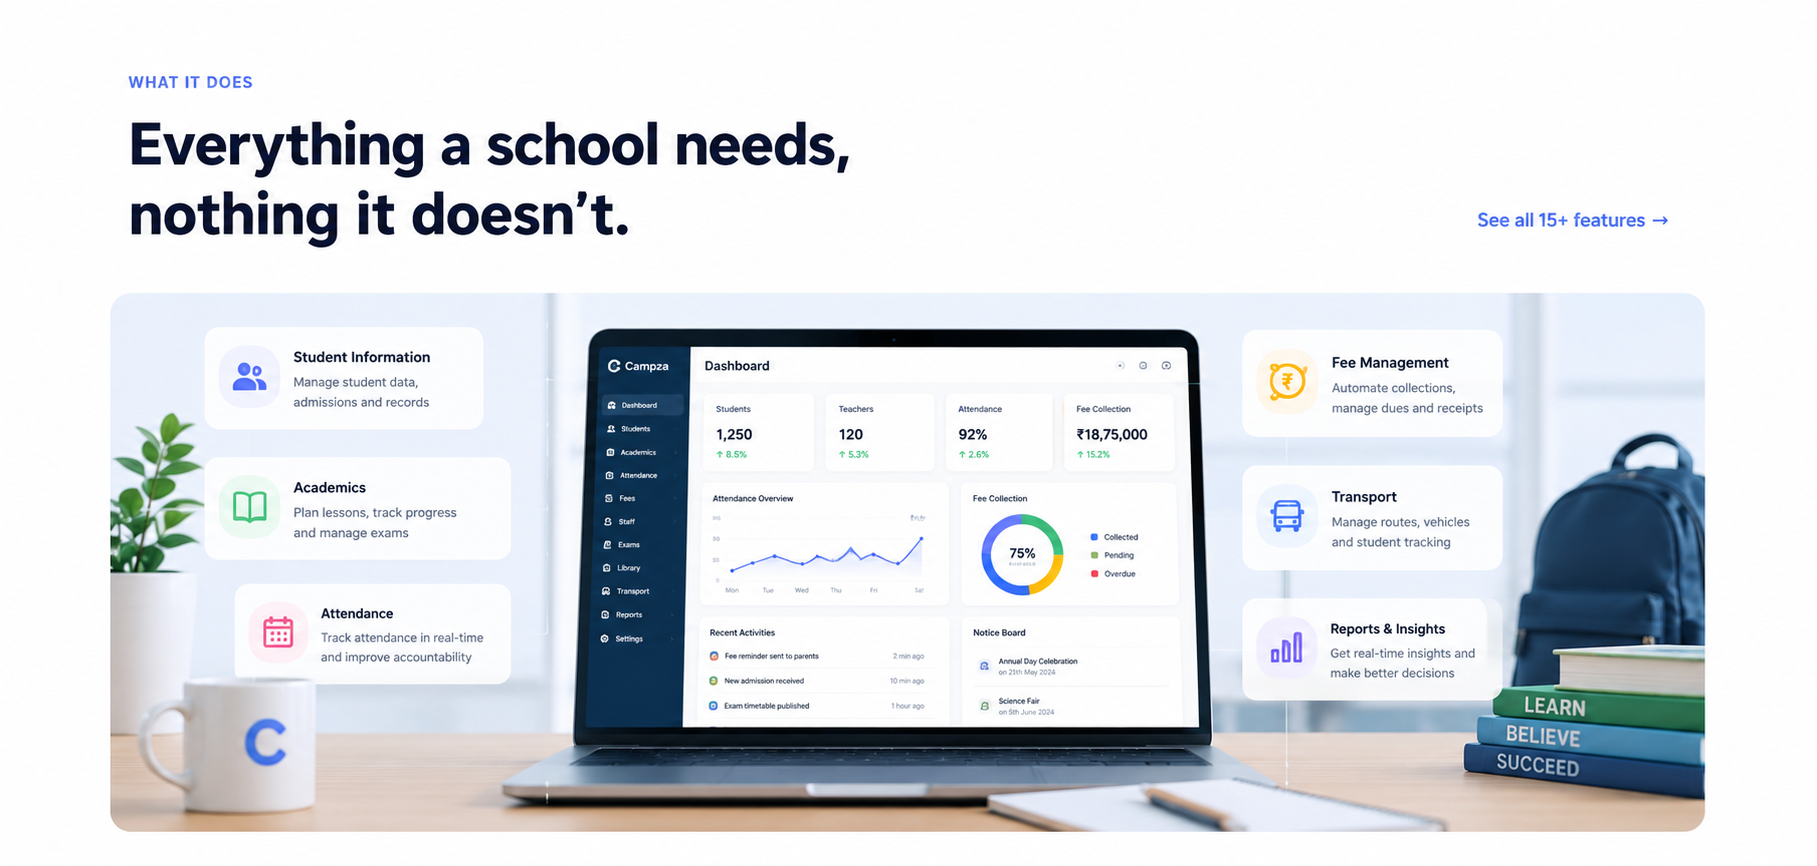
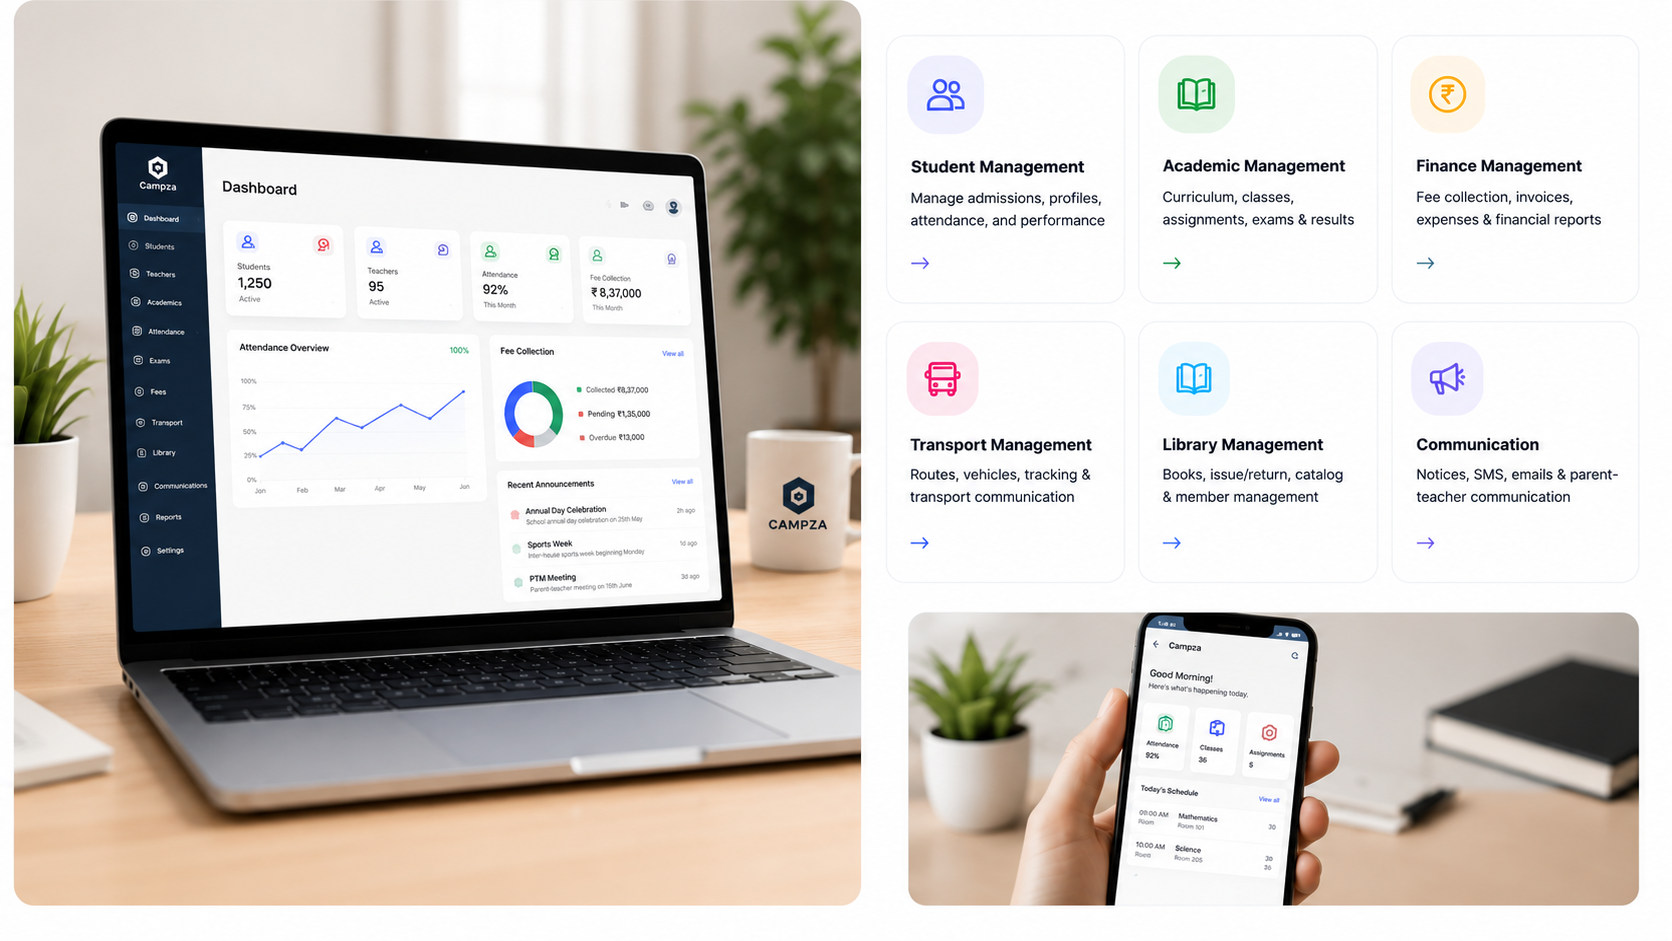
assets: update What it does and About section with custom images

diff --git a/src/app/about/page.tsx b/src/app/about/page.tsx
@@ -65,13 +65,8 @@ export default function AboutPage() {
             </div>
 
             {/* Photo */}
-            <div className="my-12 grid grid-cols-2 gap-3 rounded-2xl overflow-hidden" style={{ height: 280 }}>
-              <div className="relative w-full h-full">
-                <Image src="https://images.unsplash.com/photo-1580582932707-520aed937b7b?w=600&auto=format&q=75" alt="School classroom" fill className="object-cover" sizes="50vw" />
-              </div>
-              <div className="relative w-full h-full">
-                <Image src="https://images.unsplash.com/photo-1509062522246-3755977927d7?w=600&auto=format&q=75" alt="Teacher with students" fill className="object-cover" sizes="50vw" />
-              </div>
+            <div className="my-12 rounded-2xl overflow-hidden relative w-full" style={{ height: 320 }}>
+              <Image src="/img-tochangethat.png" alt="CampZa was created to change that" fill className="object-contain object-center" sizes="100vw" quality={80} />
             </div>
 
             <p className="text-base leading-loose mb-8" style={{ color: "var(--muted)", fontSize: "1.0625rem" }}>

diff --git a/src/app/page.tsx b/src/app/page.tsx
@@ -56,8 +56,8 @@ export default function Home() {
                 style={{ color: "var(--blue)" }}>See all 15+ features →</Link>
             </div>
             {/* Photo strip */}
-            <div className="relative w-full mb-10 rounded-2xl overflow-hidden" style={{ height: 200 }}>
-              <Image src="/img-whatitdoes.png" alt="What it does" fill className="object-cover object-top" sizes="100vw" quality={80} />
+            <div className="relative w-full mb-10 rounded-2xl overflow-hidden" style={{ height: 260 }}>
+              <Image src="/img-whatitdoes.png" alt="What it does" fill className="object-contain object-center" sizes="100vw" quality={80} />
             </div>
 
             <div className="grid grid-cols-1 sm:grid-cols-2 lg:grid-cols-3 gap-5">
